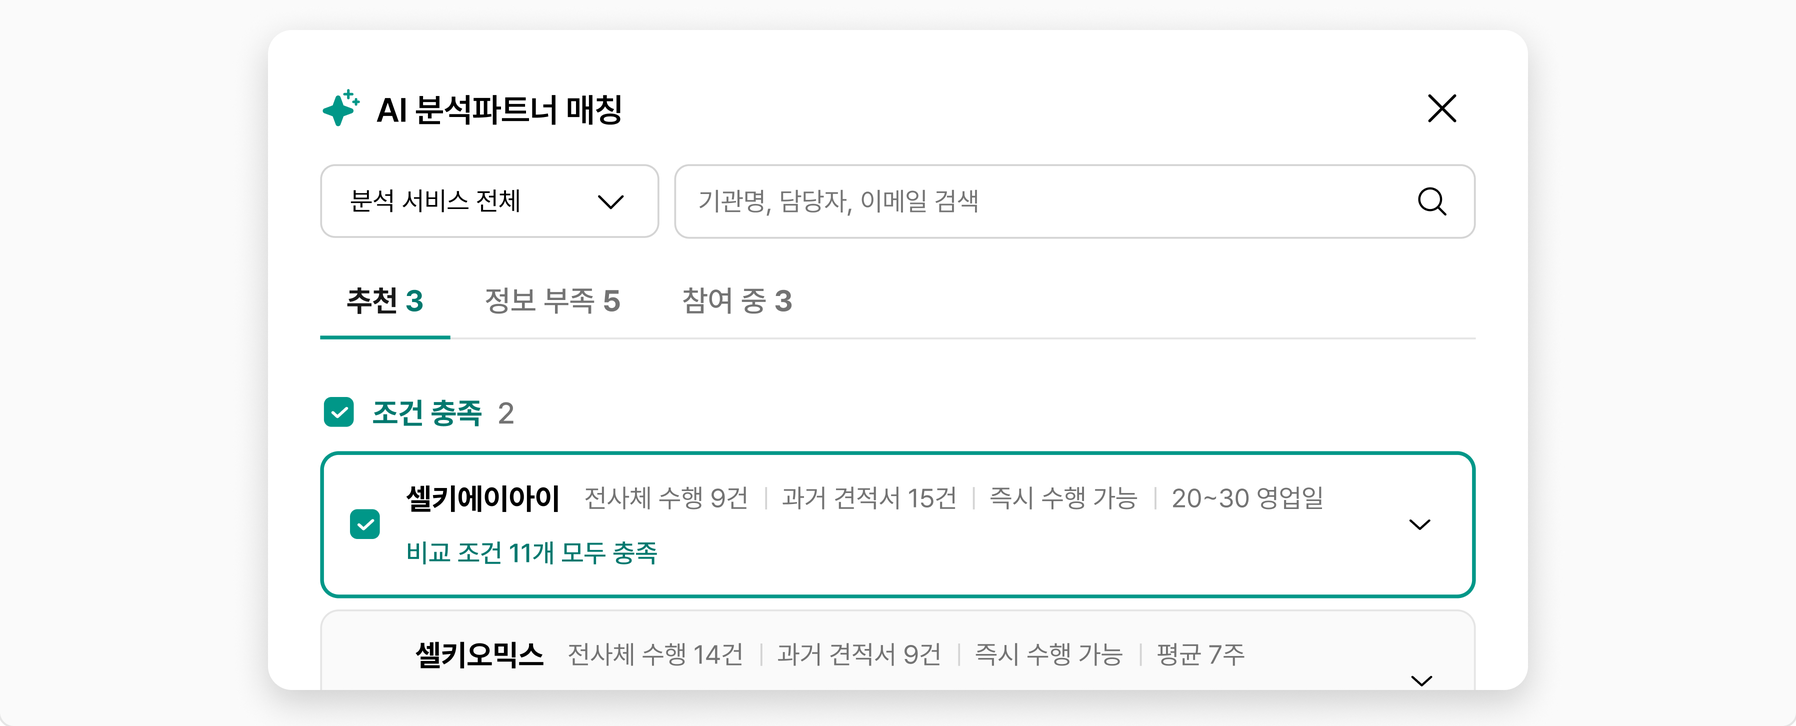
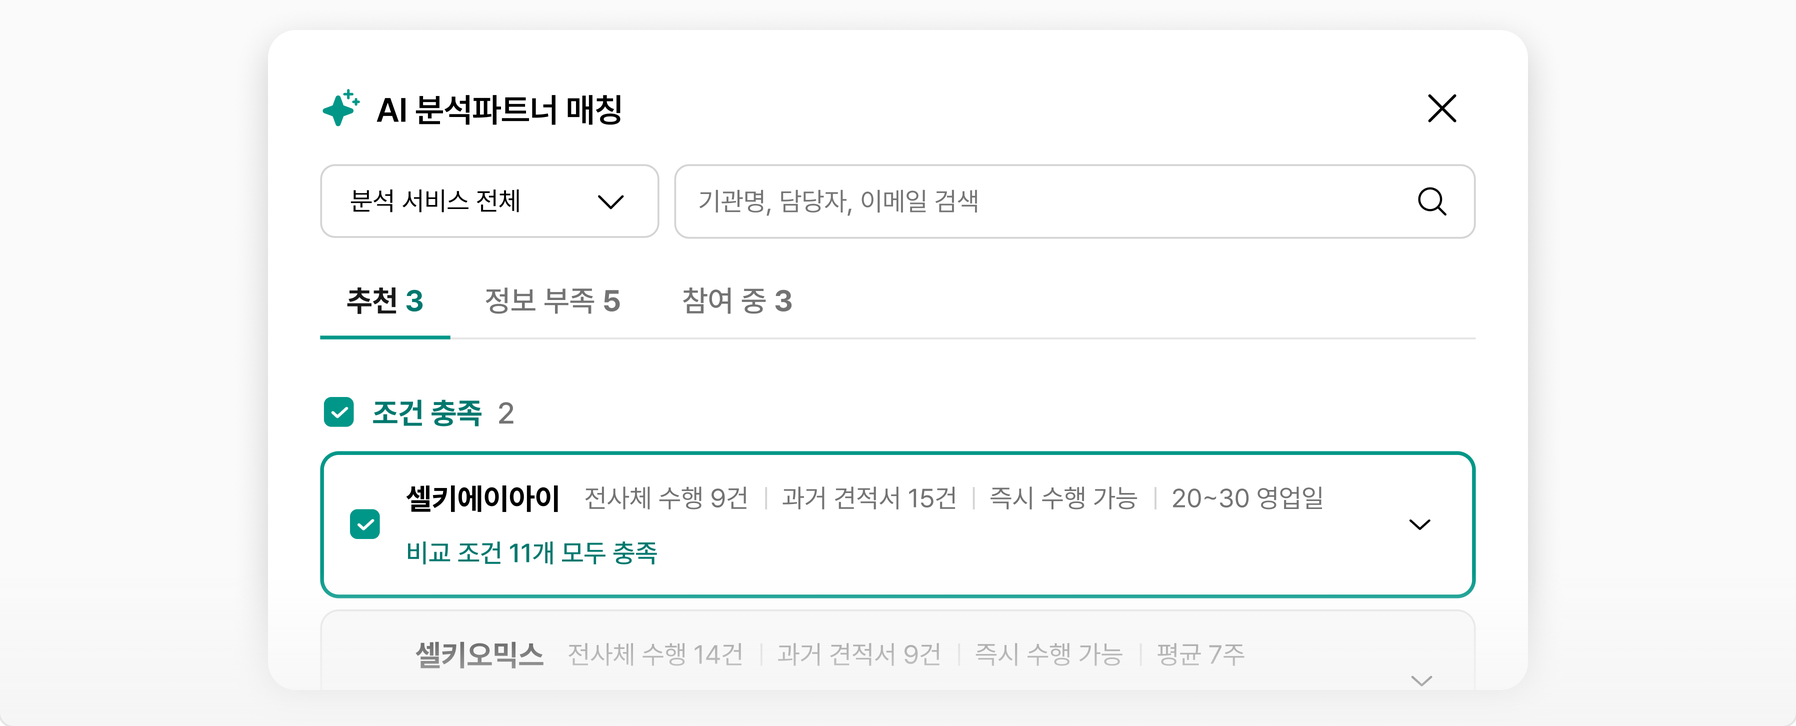
Features: 파트너 매칭 이미지 재내보내기(그라디언트 높임), 그라디언트는 모두 이미지에 포함되어 CSS 제거

Changed region(s): [[0.2183, 0.8788, 0.4053, 0.9394], [0.4365, 0.8788, 0.686, 0.9091]]

diff --git a/index.html b/index.html
@@ -135,7 +135,7 @@
   .fb.report > img { left:calc(50% - 203px); width:406px; } .fb.matching > img { left:calc(50% - 449px); width:898px; }
   .fb .fh { position:absolute; left:31px; top:31px; display:flex; flex-direction:column; gap:12px; }
   .fb.report .fh { left:50px; top:32px; width:308px; } .fb.matching .fh { left:39px; top:39px; }
-  .fb::after { content:''; position:absolute; left:0; right:0; bottom:0; height:54px; background:linear-gradient(rgba(245,245,245,0), #f5f5f5); pointer-events:none; } .fb.interpret::after, .fb.support::after, .fb.report::after { content:none; } /* 카드 아래 회색 그라디언트 (결과 해석·Customer Support·보고서 작성은 Figma 내보내기에 이미 들어 있음) (Figma Rectangle 34624211, 2026-11-05): 화면 이미지가 잘린 끝을 흐리게 */
+  /* 카드 아래 회색 그라디언트는 Figma 내보내기 이미지에 들어 있음 (2026-11-05) */
   .fb .t { display:flex; align-items:center; gap:8px; font-size:18px; font-weight:600; line-height:24px; letter-spacing:-.18px; color:#000; }
   .fb .t .ic { width:24px; height:24px; color:#000; }
   .fb .fh p { font-size:16px; line-height:22px; color:#5b617a; }
@@ -460,7 +460,7 @@
     </div>
     <div class="fb-row">
       <div class="fb report"><div class="fh"><div class="t"><span class="ic" style="--src:url(assets/main/ic-file-text.svg?v=2)"></span>AI 기반 보고서 작성<span class="ftag soon">Coming soon</span></div><p>분석 결과를 바탕으로 AI가 보고서 초안을 작성하고 필요한 부분은 바로 수정할 수 있습니다.</p></div><img src="assets/main/features/bento/report.png?v=2" alt="AI 보고서 생성 화면 예시"></div>
-      <div class="fb matching"><div class="fh"><div class="t"><span class="ic" style="--src:url(assets/main/ic-sparkle.svg)"></span>AI 파트너 매칭<span class="ftag soon">Coming soon</span></div><p>프로젝트의 분석 분야와 요구사항을 바탕으로 적합한 분석 파트너를 AI로 빠르게 추천합니다.</p></div><img src="assets/main/features/bento/matching.png?v=2" alt="AI 분석파트너 매칭 화면 예시"></div>
+      <div class="fb matching"><div class="fh"><div class="t"><span class="ic" style="--src:url(assets/main/ic-sparkle.svg)"></span>AI 파트너 매칭<span class="ftag soon">Coming soon</span></div><p>프로젝트의 분석 분야와 요구사항을 바탕으로 적합한 분석 파트너를 AI로 빠르게 추천합니다.</p></div><img src="assets/main/features/bento/matching.png?v=3" alt="AI 분석파트너 매칭 화면 예시"></div>
     </div>
   </div>
 </section>
